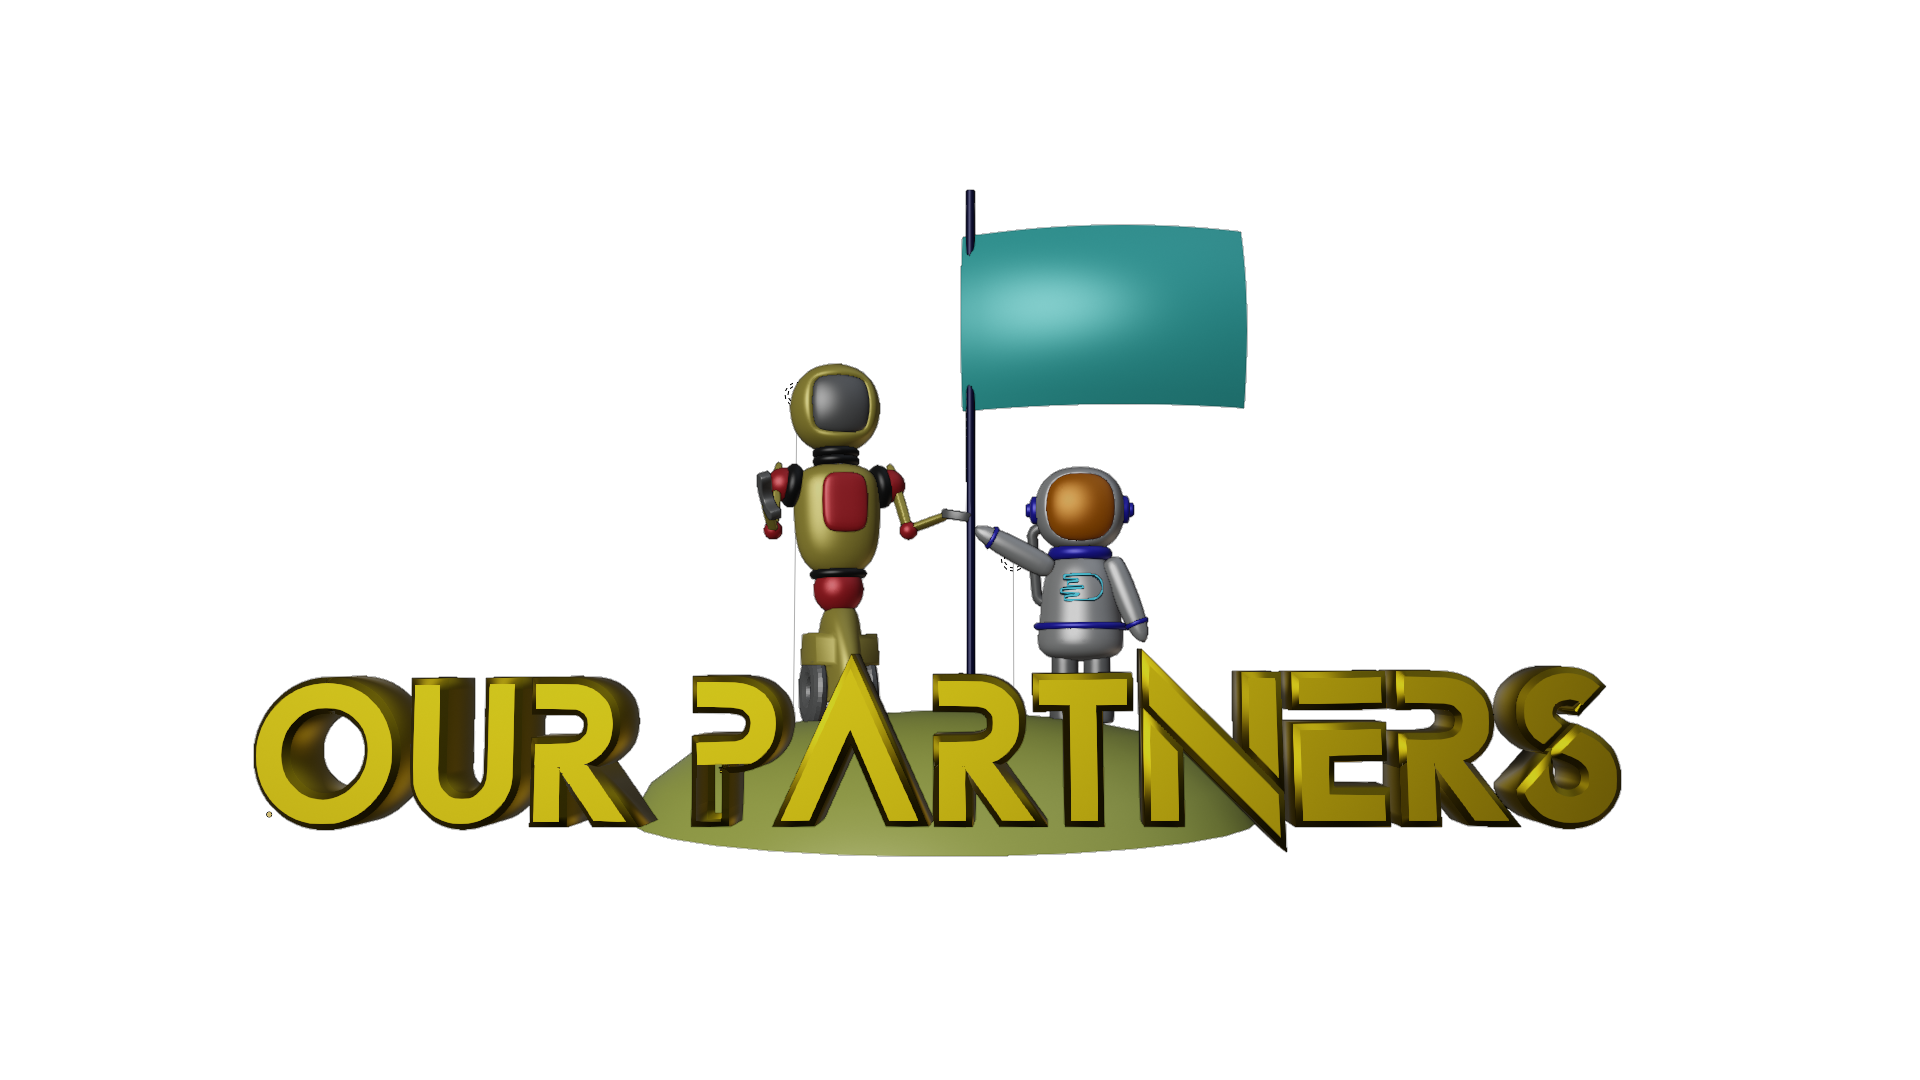
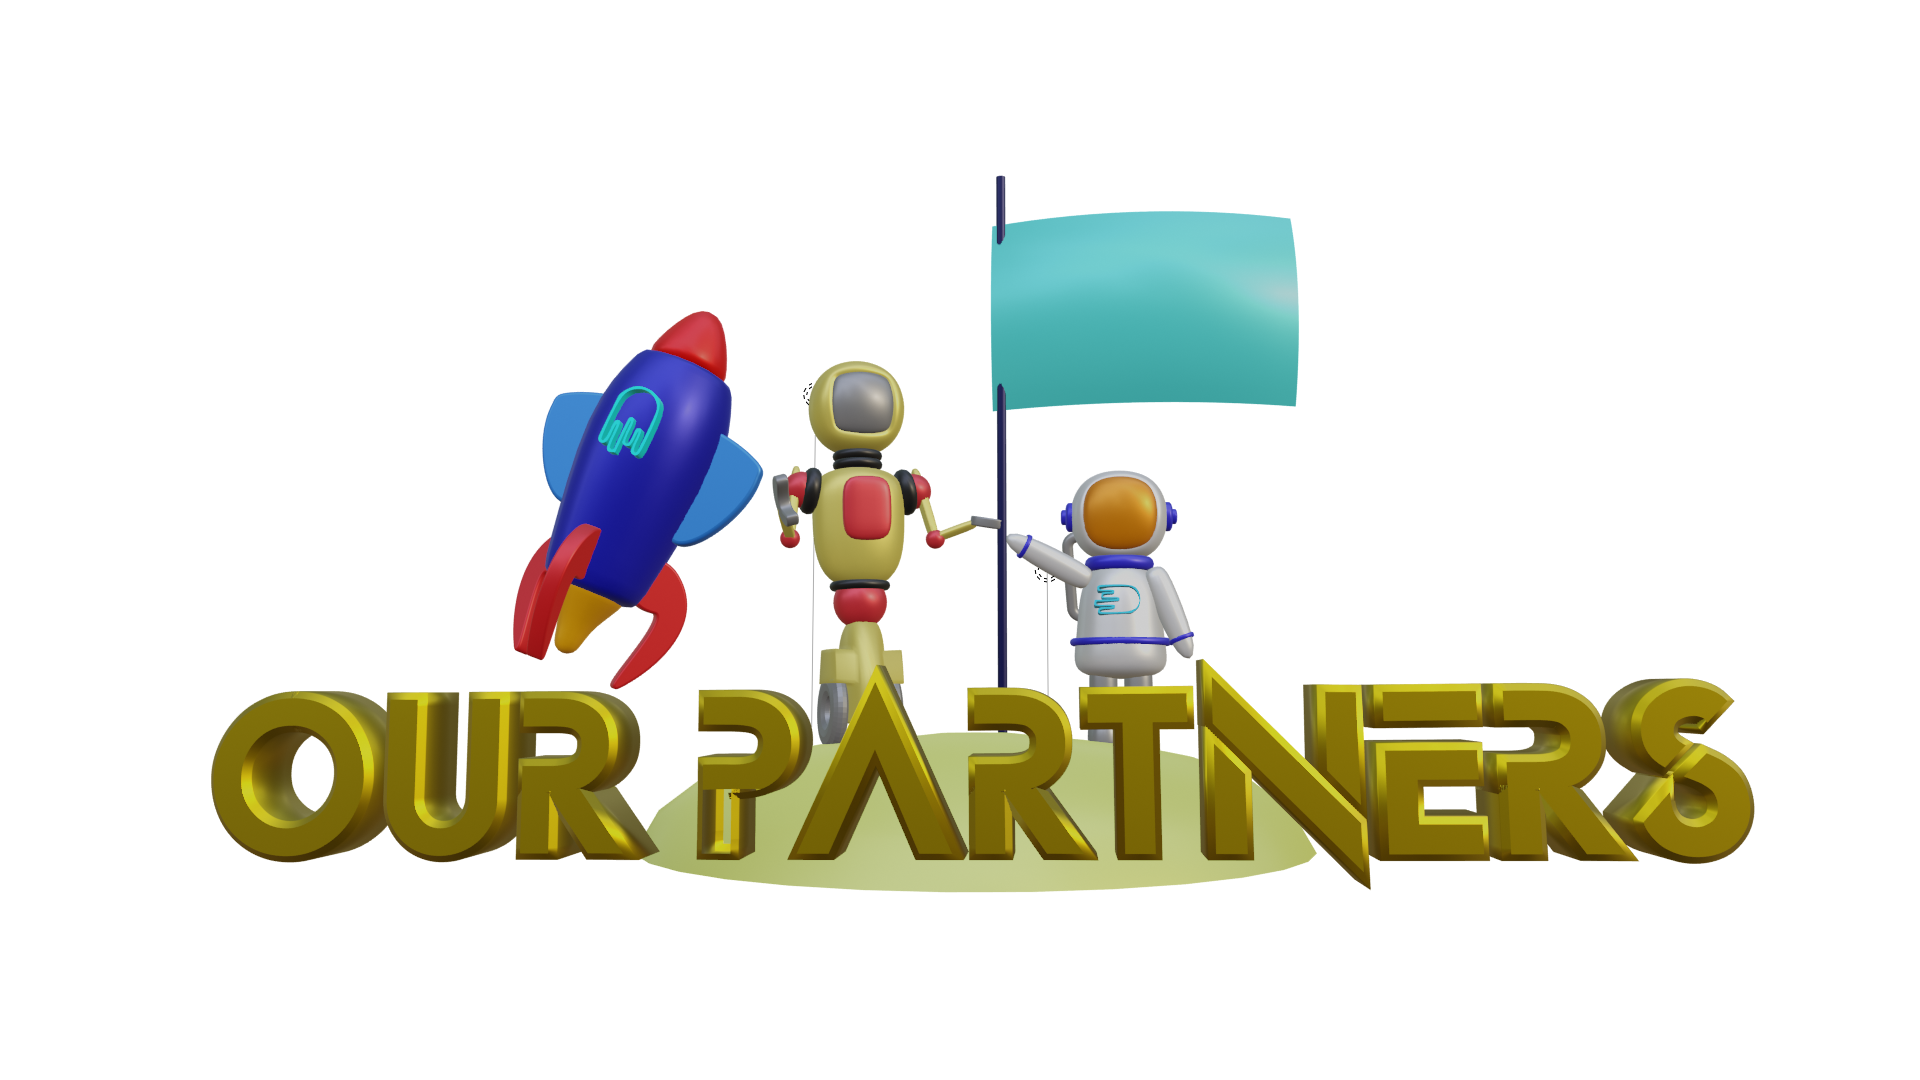
gaming

Changed region(s): [[0.0938, 0.1528, 0.9375, 0.825]]

diff --git a/src/components/Sections/GamingSection.js b/src/components/Sections/GamingSection.js
@@ -5,25 +5,24 @@ import { motion } from "framer-motion";
 import { Link as LinkR } from "react-router-dom";
 
 
-import TeamImage from "../../images/BestTeamDivider.png";
+import GamingImage from "../../images/BestGamingDivider.png";
 
 
 const Container = styled.div`
     display: flex;
     width: 100vw;
     height: 100vh;
-    background: ${props => props.theme.text};
+    background: white;
 
     @media screen and (max-width: 1100px){
         flex-direction: column;
-        
     }
 `;
 
 const ColumnLeft = styled.div`
     flex-shrink: 0;
     flex-basis: 50%;
-    background: ${props => props.theme.body};
+    background: white;
     width: 50%;
     height: 100vh;
     display: flex;
@@ -34,14 +33,14 @@ const ColumnLeft = styled.div`
     }
 
     @media screen and (max-width: 1100px){
-        width: 100vw;
         
+        width: 100vw;
         
         
     }
 `;
 const ColumnRight = styled.div`
-    background: ${props => props.theme.body};
+    background: white;
     display: flex;
     flex-direction: column;
     align-items: center;
@@ -82,7 +81,7 @@ const SectionImage = styled.div`
 
 
 const TopLine = styled.p`
-    color: ${props => props.theme.text};
+    color: black;
     font-size: 24px;
     font-weight: 700;
     margin-bottom: 30px;
@@ -98,7 +97,7 @@ const TopLine = styled.p`
 const Heading = styled.h1`
     font-size: 48px;
     font-weight: 600;
-    color: ${props => props.theme.text};
+    color: black;
     margin-bottom: 30px;
 
     @media screen and (max-width: 480px){
@@ -110,38 +109,30 @@ const Heading = styled.h1`
 const StyledButton = styled(Button)`
     &&& {
         color: black;
-        border: 1px solid ${props => props.theme.text};
+        border: 1px solid black;
         margin-bottom: 30px;
     }
 `;
 
-
-const TeamSection = () => {
-
-    
-
-
-    return(
-        <>
-            <Container id="gaming">
+const GamingSection = () => {
+    return (
+         
+        <Container id="gaming">
             <ColumnLeft>
                 <SectionImage >
-                <Image src={TeamImage} alt="" />
+                <Image src={GamingImage} alt="" />
                 </SectionImage>
             </ColumnLeft>
             <ColumnRight>
             
                 <TopLine>Lorem ipsum dolor sit amet, consectetur adipiscing elit, sed do eiusmod tempor incididunt ut labore et dolore magna aliqua</TopLine>
-                <Heading>MEET THE TEAM</Heading>
+                <Heading>TRY YOUR LUCK</Heading>
            
-            <LinkR to="TokenomicsPage"><StyledButton>GO!!!</StyledButton></LinkR>
+            <LinkR to="TokenomicsPage"><StyledButton>LEARN MORE</StyledButton></LinkR>
             </ColumnRight>
-        </Container> 
-       
-        </>
+        </Container>
         
     )
 }
 
-
-export default TeamSection;
+export default GamingSection;

diff --git a/src/pages/index.js b/src/pages/index.js
@@ -15,6 +15,7 @@ import NewsSection from "../components/Sections/NewsSection";
 import SectionMenu from "../components/Sections/TopSection";
 import Tokenomics from "../components/Sections/Tokenomics";
 import TeamSection from "../components/Sections/TeamSection";
+import GamingSection from "../components/Sections/GamingSection";
 
 
 
@@ -54,6 +55,7 @@ const Home = (props) => {
             <NewsSection />
             <DonutSection />
             <TeamSection />
+            <GamingSection />
             {/* <BuySellSection /> */}
             {/* <Tokenomics /> */}
             {/* <DonutSection /> */}

diff --git a/src/components/Sections/NewsSection.js b/src/components/Sections/NewsSection.js
@@ -287,7 +287,7 @@ const NewsSection = () => {
         <SectionImage id="news">
             <Image src={NewsImage} alt="" />
             </SectionImage>
-        <Section id="news">
+        <Section>
         <Carroussel>
             <Slider {...settings}>
                 <div>
